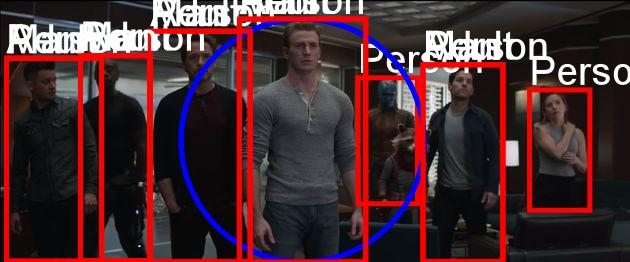
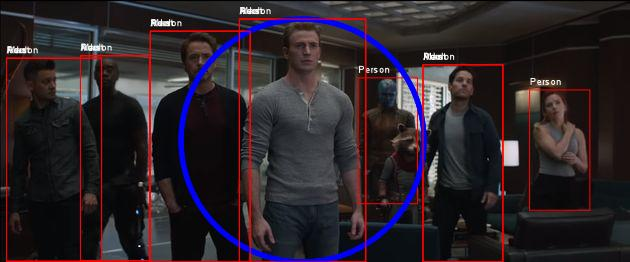
사각형, 동그라미, FontSize 크기 조정

Changed region(s): [[0.0, 0.0, 1.0, 1.0]]

diff --git a/index.js b/index.js
@@ -54,7 +54,7 @@ rekognition.detectLabels(params, function(err, data) {
             context.drawImage(image, 0, 0);
 
             // Set font properties
-            const fontSize = 40;
+            const fontSize = 10;
             const fontFamily = 'Arial';
             context.font = `${fontSize}px ${fontFamily}`;
 
@@ -88,7 +88,7 @@ rekognition.detectLabels(params, function(err, data) {
                             // Draw a rectangle
                             context.beginPath();
                             context.rect(x, y, width, height);
-                            context.lineWidth = 5;
+                            context.lineWidth = 1;
                             context.strokeStyle = 'red';
                             context.fillStyle = 'transparent';
                             context.stroke();
@@ -97,13 +97,14 @@ rekognition.detectLabels(params, function(err, data) {
                             // Draw a rectangle
                             context.beginPath();
                             context.rect(x, y, width, height);
-                            context.lineWidth = 5;
+                            context.lineWidth = 1;
                             context.strokeStyle = 'red';
                             context.fillStyle = 'transparent';
                             context.stroke();
                         }
 
                         // Draw the label text
+                        
                         context.fillStyle = 'white';
                         context.fillText(name, x, y - 5);
                     }
